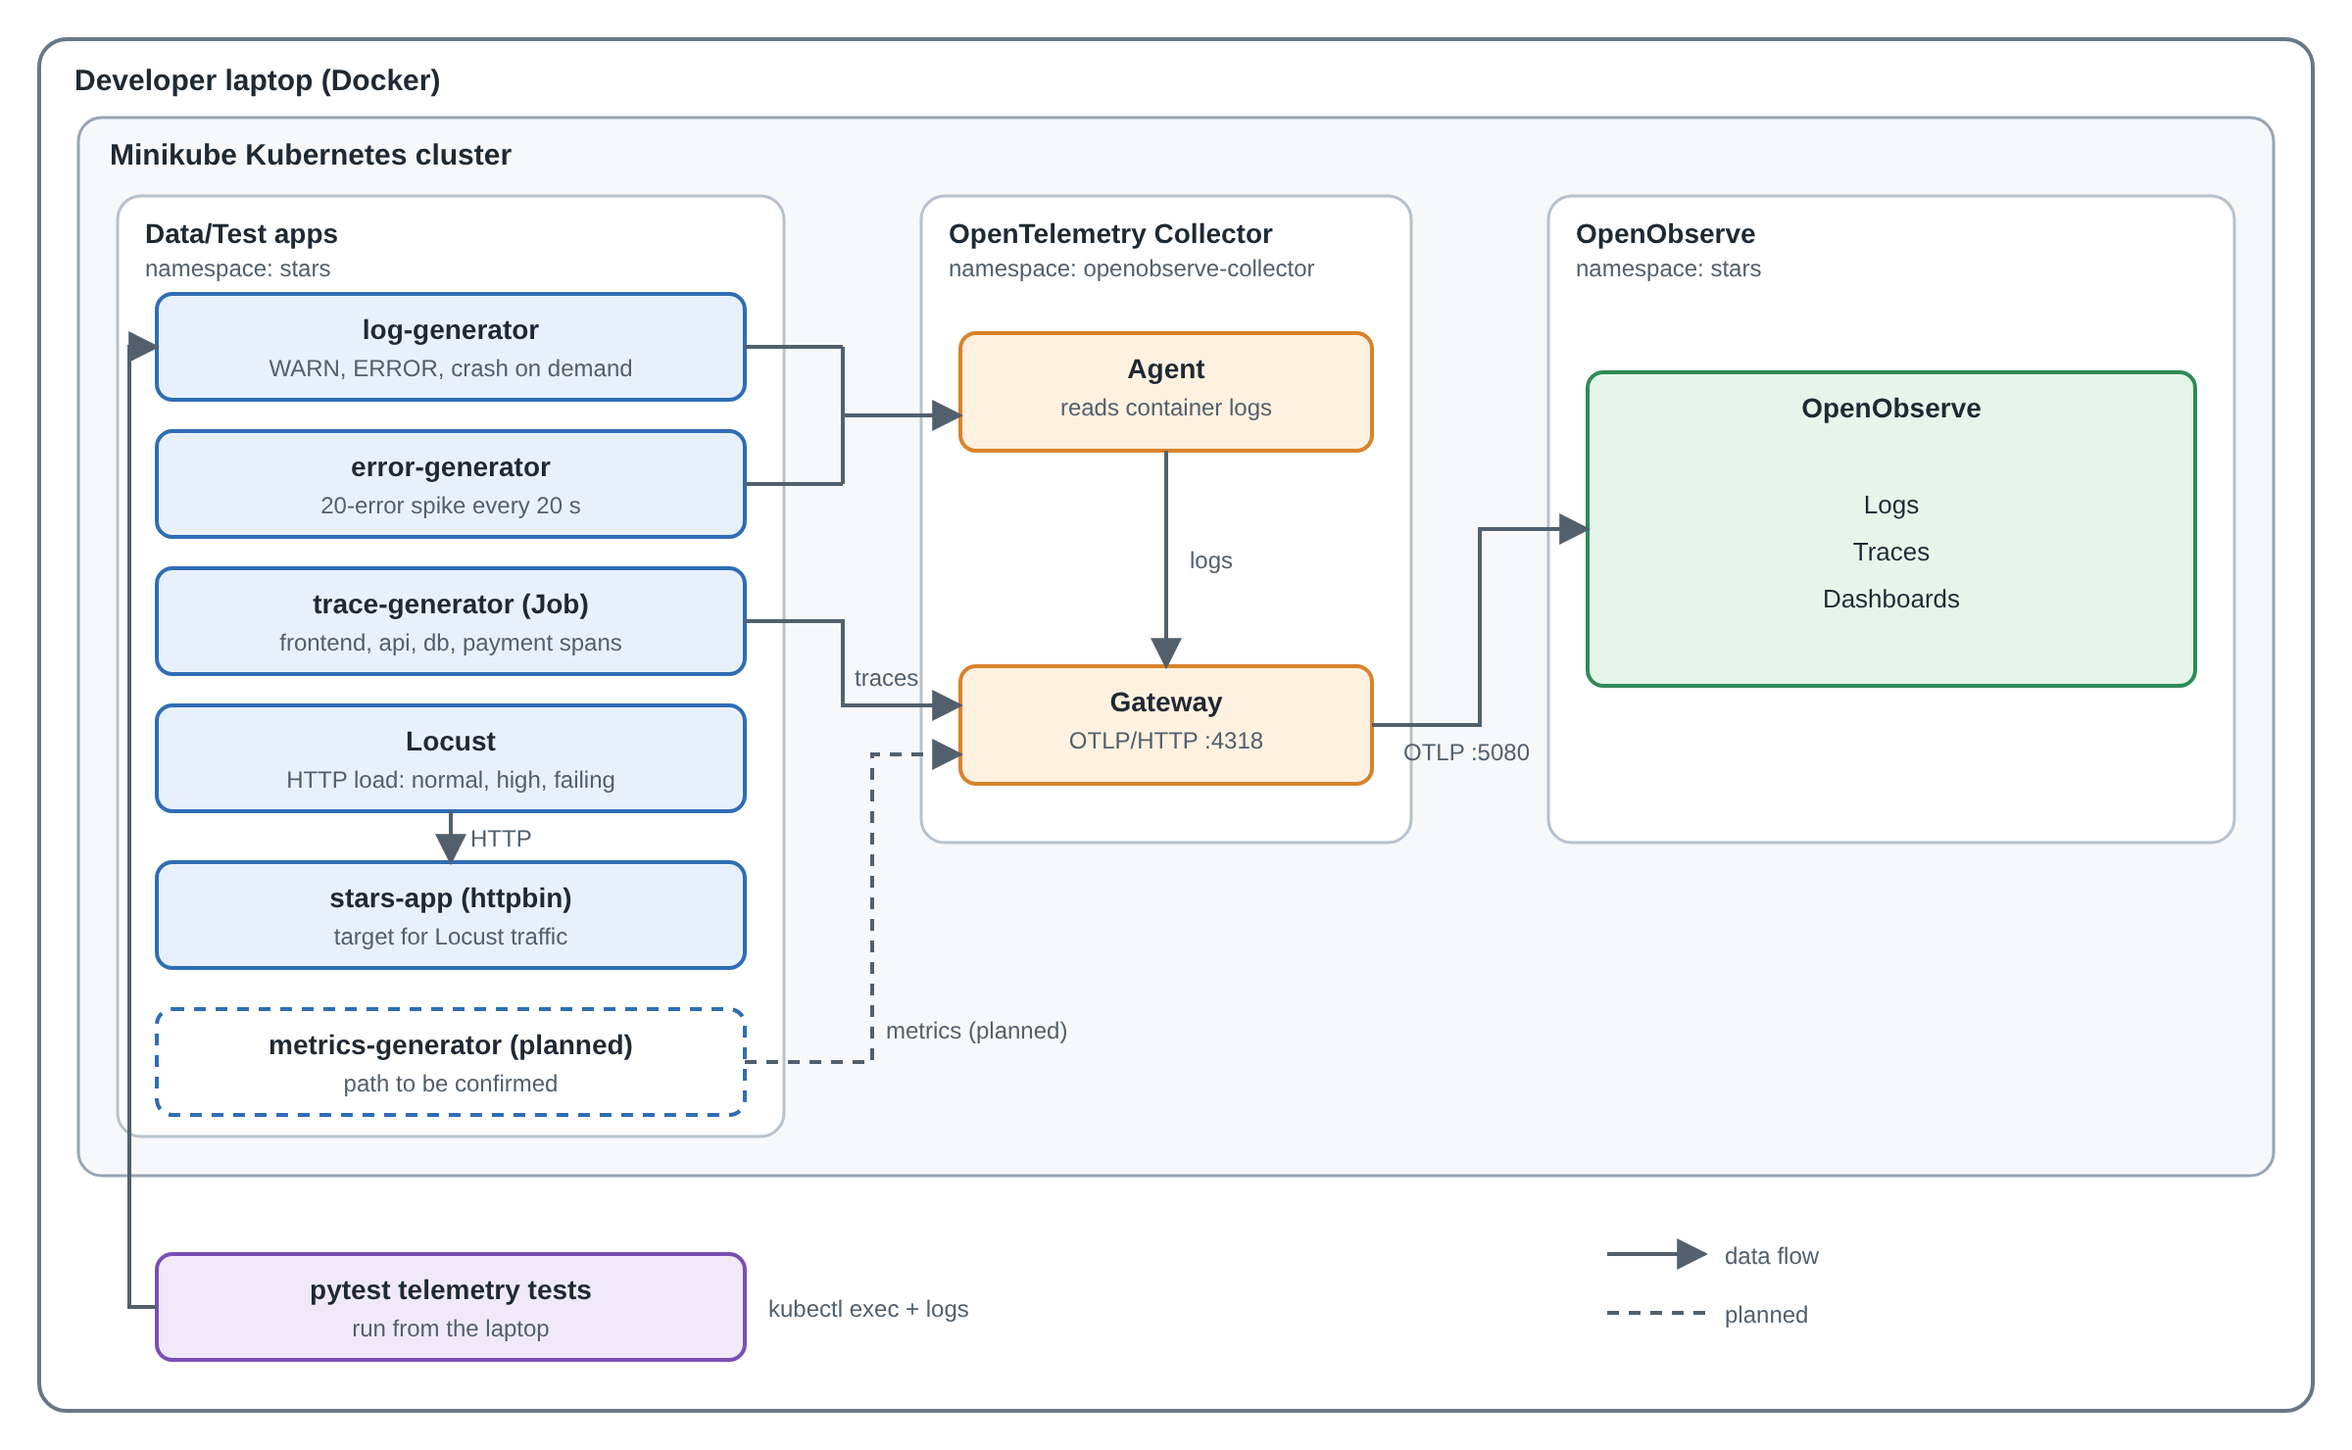
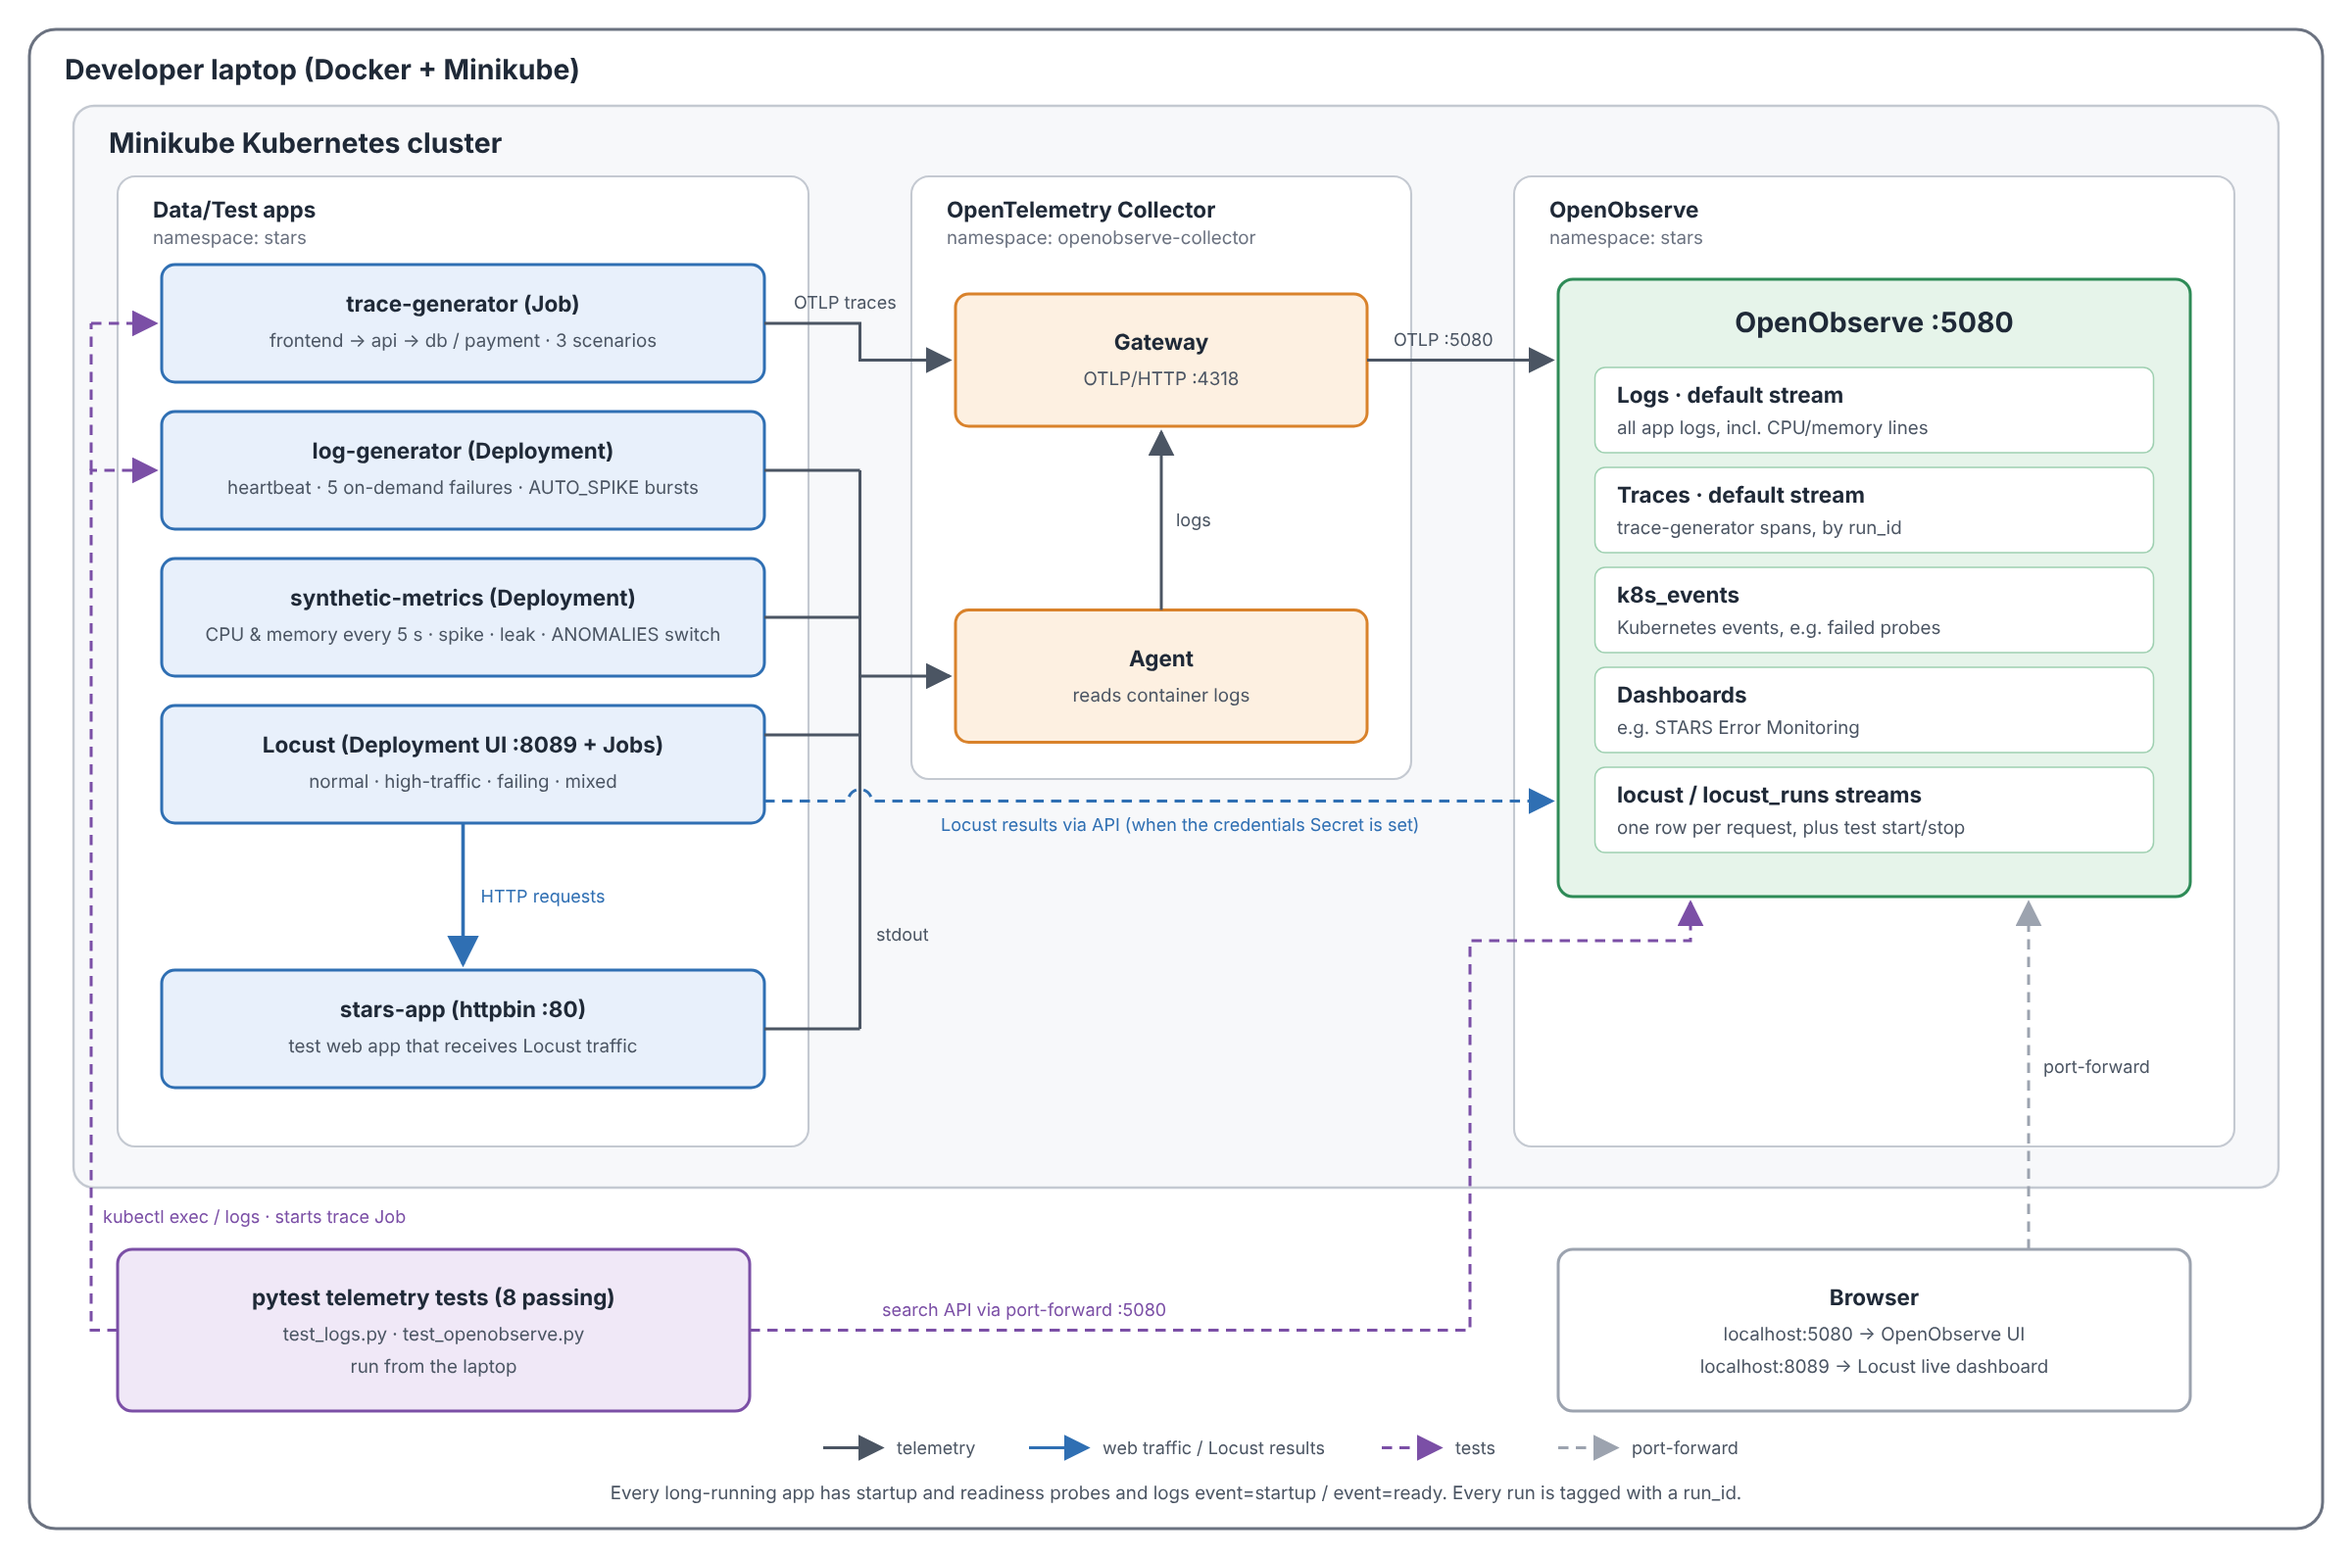
docs: apps README with folder guide, telemetry table and updated architecture diagram

diff --git a/apps/README.md b/apps/README.md
@@ -1,2 +1,83 @@
-# Apps
-Sample applications that run in the cluster and generate logs/metrics.
+# Apps (Data/Test Engineering)
+
+This folder holds the Data/Test Engineering team's work for the STARS sandbox. Together, these folders **create** realistic telemetry and failures, **record** what the results should be, and **check** that everything reaches OpenObserve.
+
+![Data/Test architecture](data-test-architecture-diagram.png)
+
+---
+
+## What each folder does
+
+### [log-generator](log-generator/)
+
+A small app that writes log messages, including a "heartbeat" every 5 seconds that shows it is alive. On command, it fakes problems: a warning, an error, a burst of 20 errors, a connection failure, or a crash. It can also create automatic error bursts on its own (`AUTO_SPIKE=true`). Every problem is tagged with a `run_id`, so we know exactly which log lines it should produce. This is how we test that logs and failures show up correctly in OpenObserve.
+
+### [synthetic-metrics](synthetic-metrics/)
+
+A small app that reports fake CPU and memory usage every 5 seconds. Most of the time the numbers look healthy, but on a schedule it shows a CPU spike (every 5 minutes) or a slow memory leak (minutes 35–50 of each hour). The problems can be turned off with `ANOMALIES=off` to record purely normal data. This gives us the metrics signal for dashboards, and later gives the AI/ML team examples of normal and abnormal behavior.
+
+### [trace-generator](trace-generator/)
+
+Creates fake traces: records of one request traveling through four pretend services (frontend, api, database and payment). It has three scenarios: `normal`, `slow-db` (the database is slow) and `payment-errors` (the payment service fails). This shows how a problem in one service affects the services around it. The Observability team uses it to test tracing in OpenObserve, and it sets up root-cause analysis later in the project.
+
+### [Locust](Locust/)
+
+Our traffic generator. It sends fake website visits to a test app (`stars-app`, running httpbin) so OpenObserve has real activity to monitor. It can act like normal users, a sudden crowd of users, users who hit errors and slow pages, or a mix of all three. Each run gets a `run_id`, so its results can be found later in OpenObserve. Unlike the other generators, a real app does real work here, which makes this the most realistic data we have.
+
+### [failure-scenarios](failure-scenarios/)
+
+A written catalog of every problem our generators can create. For each one, it lists how to trigger it, the exact log lines that should appear, and how to tell whether it passed. Think of it as the answer key: it says what *should* happen. Our tests are built from it, and later phases will score the AI's problem detection against it.
+
+### [tests](tests/telemetry-validation/)
+
+Automated tests that trigger problems and check the results on their own, with no one watching logs by hand. They prove what *does* happen: the log generator behaves as the catalog says, and logs, metrics and traces actually arrive in OpenObserve. The latest results are saved in [`test-results.xml`](tests/telemetry-validation/test-results.xml), our team's proof that everything works.
+
+---
+
+## Telemetry at a glance
+
+| Generator | Sends | How it reaches OpenObserve | Where to find it in OpenObserve |
+|---|---|---|---|
+| log-generator | Logs | Container logs → collector Agent → Gateway | **Logs**, `default` stream: `k8s_container_name = 'log-generator'` |
+| synthetic-metrics | Metrics (CPU and memory, as log lines) | Container logs → collector Agent → Gateway | **Logs**, `default` stream: `k8s_container_name = 'synthetic-metrics'` |
+| trace-generator | Traces | OpenTelemetry (OTLP) straight to the collector Gateway, port 4318 | **Traces**, `default` stream: filter by `run_id` |
+| Locust | Web traffic and test results | Container logs through the collector; results sent straight to OpenObserve's API (when the credentials Secret is set) | **Logs**, `locust` stream (one row per request) and `locust_runs` (test start and stop) |
+| stars-app | Request logs (the app Locust tests) | Container logs → collector Agent → Gateway | **Logs**, `default` stream: `k8s_container_name = 'httpbin'` (the container's name inside `stars-app`) |
+
+All long-running apps have Kubernetes startup and readiness checks, and log these two lines so the Observability team can measure startup time:
+
+```text
+<UTC time> level=INFO service=<app name> event=startup message="Process started" run_id=<RUN_ID>
+<UTC time> level=INFO service=<app name> event=ready message="Ready to serve" run_id=<RUN_ID>
+```
+
+---
+
+## Getting started
+
+Everything runs in the `stars` namespace on Minikube. Commands work the same in macOS Terminal and Windows PowerShell unless a README shows both.
+
+1. **Set up the platform first** (once per cluster):
+   1. Minikube and the `stars` namespace: [`infrastructure/README.md`](../infrastructure/README.md)
+   2. OpenObserve: [`observability/install.md`](../observability/install.md)
+   3. The collector: [`observability/collector.md`](../observability/collector.md)
+2. **Start the generators** you need, using each folder's README. A good order:
+   1. [log-generator](log-generator/), the quickest check that logs reach OpenObserve
+   2. [synthetic-metrics](synthetic-metrics/)
+   3. [trace-generator](trace-generator/), a short run that stops by itself
+   4. [Locust](Locust/), which also deploys `stars-app`
+3. **Open OpenObserve** to see the data:
+   ```bash
+   kubectl port-forward -n stars svc/openobserve-openobserve-standalone 5080:5080
+   ```
+   Then go to <http://localhost:5080> and log in with the credentials from your `observability/values.local.yaml`.
+4. **Run the tests** to confirm everything works: [`tests/telemetry-validation/README.md`](tests/telemetry-validation/README.md).
+5. **Trigger a failure scenario** and compare the result with the [failure catalog](failure-scenarios/).
+
+---
+
+## Conventions
+
+- Use a **new `run_id`** for each run, so one search finds the whole run (letters, digits, `_` and `-`; up to 64 characters).
+- Every README gives commands for both **Mac (Terminal)** and **Windows (PowerShell)** wherever they differ.
+- Never commit passwords. OpenObserve logins live in your local `*.local.yaml` files, environment variables, or the `openobserve-credentials` Kubernetes Secret.
